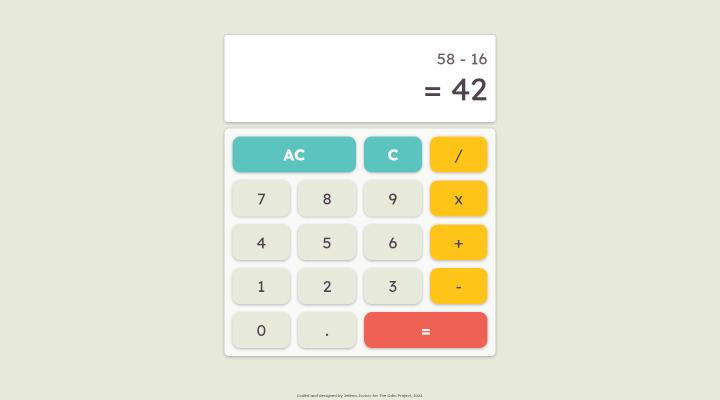
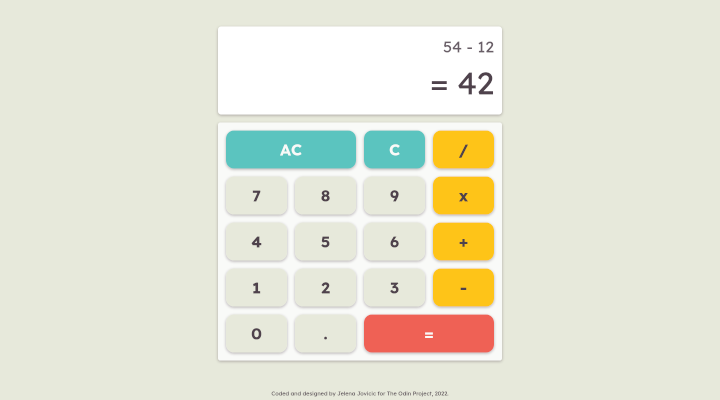
Finish 1.0

diff --git a/index.html b/index.html
@@ -14,34 +14,36 @@
 </head>
 
 <body>
-    <header class="sr-only"></header>
+    <header class="sr-only">
+        <h1>Calculator</h1>
+    </header>
     <main>
         <div class="wrapper--calculator">
             <div class="wrapper--display">
                 <div class="display__input"></div>
                 <div class="display__result"></div>
             </div>
-            <div class="buttons">
-                <button class="control clear" value="Delete">AC</button>
-                <button class="control backspace" value="Backspace">C</button>
-                        <button class="operator" value="/">/</button>
-                        <button class="digit" value="7">7</button>
-                        <button class="digit" value="8">8</button>
-                        <button class="digit" value="9">9</button>
-                        <button class="operator" value="*">x</button>
-                        <button class="digit" value="4">4</button>
-                        <button class="digit" value="5">5</button>
-                        <button class="digit" value="6">6</button>
-                        <button class="operator" value="+">+</button>
-                        <button class="digit" value="1">1</button>
-                        <button class="digit" value="2">2</button>
-                        <button class="digit" value="3">3</button>
-                        <button class="operator" value="-">-</button>
-                        <button class="digit" value="0">0</button>
-                        <button class="decimal" value=".">.</button>
-                        <button class="operator equals" value="Enter">=</button>
-
+            <div class="wrapper--buttons">
+                <button class="btn btn--control btn--clear" value="Delete">AC</button>
+                <button class="btn btn--control btn--backspace" value="Backspace">C</button>
+                <button class="btn btn--operator" value="/">/</button>
+                <button class="btn btn--digit" value="7">7</button>
+                <button class="btn btn--digit" value="8">8</button>
+                <button class="btn btn--digit" value="9">9</button>
+                <button class="btn btn--operator" value="*">x</button>
+                <button class="btn btn--digit" value="4">4</button>
+                <button class="btn btn--digit" value="5">5</button>
+                <button class="btn btn--digit" value="6">6</button>
+                <button class="btn btn--operator" value="+">+</button>
+                <button class="btn btn--digit" value="1">1</button>
+                <button class="btn btn--digit" value="2">2</button>
+                <button class="btn btn--digit" value="3">3</button>
+                <button class="btn btn--operator" value="-">-</button>
+                <button class="btn btn--digit" value="0">0</button>
+                <button class="btn btn--digit" value=".">.</button>
+                <button class="btn btn--operator btn--equals" value="Enter">=</button>
             </div>
+        </div>
     </main>
     <footer>Coded and designed by <a href="https://github.com/je-jo">Jelena Jovicic</a> for <a
             href="https://www.theodinproject.com/">The Odin Project</a>, 2022.</footer>

diff --git a/assets/css/styles.css b/assets/css/styles.css
@@ -17,10 +17,22 @@
     outline-offset: 3px;
 }
 
+.sr-only {
+    position: absolute;
+    width: 1px;
+    height: 1px;
+    padding: 0;
+    margin: -1px;
+    overflow: hidden;
+    clip: rect(0, 0, 0, 0);
+    white-space: nowrap;
+    border: 0;
+} 
+
 body {
     min-height: 100vh;
     display: grid;
-    grid-template-rows: auto 1fr auto;
+    grid-template-rows: 1fr auto;
     background-color: var(--clr-lightish);
     color: var(--clr-dark);
 }
@@ -28,26 +40,30 @@ body {
 main {
     display: grid;
     place-items: center;
-}
+} 
 
 .wrapper--calculator {
-    width: min(100%, 600px);
-    height: min(100%, 700px);
-    place-self: center;
     display: grid;
     grid-template-rows: auto 1fr;
-    gap: 2%;
-    padding: 2%;
+    gap: 1em;
+    padding: 1em;
+    width: min(100%, 600px);
+    height: min(100%, 700px);
 }
 
 .wrapper--display {
     font-size: 2rem;
-    padding: 5% 3%;
+    padding: .5em;
     text-align: right;
     border-radius: 0.2em;
     background-color: #fff;
-    overflow: hidden;
     box-shadow: var(--box-shadow);
+    overflow: hidden;
+}
+
+.wrapper--display > * {
+    overflow: hidden;
+    line-height: 1.5;
 }
 
 .display__input {
@@ -58,37 +74,17 @@ main {
     font-size: 2em; 
 }
 
-.buttons {
+.wrapper--buttons {
     display: grid;
     grid-template-columns: repeat(4, 1fr);
     gap: 1em;
     padding: 1em;
     background-color: var(--clr-white);
-    border-radius: 0.6em;
+    border-radius: 0.3em;
     box-shadow: var(--box-shadow);
 }
 
-.clear, .equals {
-    grid-column: span 2;
-}
-
-.control {
-    background-color: var(--clr-blue);
-    color: var(--clr-white);
-    font-weight: 700;
-}
-
-.operator {
-    background-color: var(--clr-yellow);
-}
-
-.equals {
-    background-color: var(--clr-red);
-    color: var(--clr-white);
-    font-weight: 700;
-}
-
-button {
+.btn {
     font-family: inherit;
     font-size: 2rem;
     width: 100%;
@@ -96,16 +92,31 @@ button {
     background-color: var(--clr-lightish);
     color: inherit;
     border: none;
-    /* font-weight: 700; */
+    font-weight: 700; 
     box-shadow: var(--box-shadow);
 }
 
-button:active {
+.btn:active {
     box-shadow: inset var(--box-shadow);
 } 
 
+.btn--clear, 
+.btn--equals { grid-column: span 2; }
+
+.btn--control { background-color: var(--clr-blue); }
+
+.btn--operator { background-color: var(--clr-yellow); }
+
+.btn--equals { background-color: var(--clr-red); }
+
+.btn--control,
+.btn--equals {
+    color: var(--clr-white);
+    font-weight: 700;
+}
+
 footer {
-    font-size: 0.5rem;
+    font-size: 0.7rem;
     text-align: center;
     padding: 0.5em;
 }

diff --git a/assets/js/script.js b/assets/js/script.js
@@ -107,6 +107,9 @@ function addDecimal() {
 
 function deleteCharacter() {
     myNumber = myNumber.toString();
+    if (operator === "Enter") {
+        clearAll();
+    }
     if (myNumber.length > 1) {
         myNumber = myNumber.slice(0, -1);
     } else {
@@ -132,7 +135,7 @@ function calculate() {
         result = parseFloat(myNumber.toFixed(3)); //stores input as first number
     } else {
         result = parseFloat((operate(operator, result, myNumber)).toFixed(3)); //when the 1.num is already stored, do calculation with input as 2.num.
-        updateDisplay()
+        updateDisplay();
     }
     myNumber = "";
     operator = inputValue; //set operator after calculation, because of chaining.

diff --git a/README.md b/README.md
@@ -19,7 +19,7 @@ Simple on-screen calculator using JavaScript, HTML, and CSS. Built for [The Odin
 
 ### Description
 
-This is a simple calculator that performs basic math operations on a pair of numbers.
+This is a simple calculator that performs basic math operations on a pair of numbers, with 3-digit precision.
 
 ### Screenshot
 
@@ -36,7 +36,6 @@ This is a simple calculator that performs basic math operations on a pair of num
 
 - Semantic HTML5 markup
 - CSS custom properties
-- Flexbox
 - CSS Grid
 - Mobile-first workflow
 - Javascript
@@ -63,6 +62,8 @@ As we've been warned, getting useful variables from user input, was the hardest 
 
 - [Minireset](https://awesomeopensource.com/project/jgthms/minireset.css?categoryPage=29) - A tiny modern CSS reset. 
 - [Box Shadows](https://box-shadow.dev/) A fun and useful tool for playing around with box shadows.
+- [Colors from Paraiso theme](https://github.com/idleberg/Paraiso-Color-Palettes)
+- [Frontend Mentor Calculator challenge](https://www.frontendmentor.io/challenges/calculator-app-9lteq5N29) - The calculator's design is heavily inspired by this FEM design.
 
 ## Author
 
